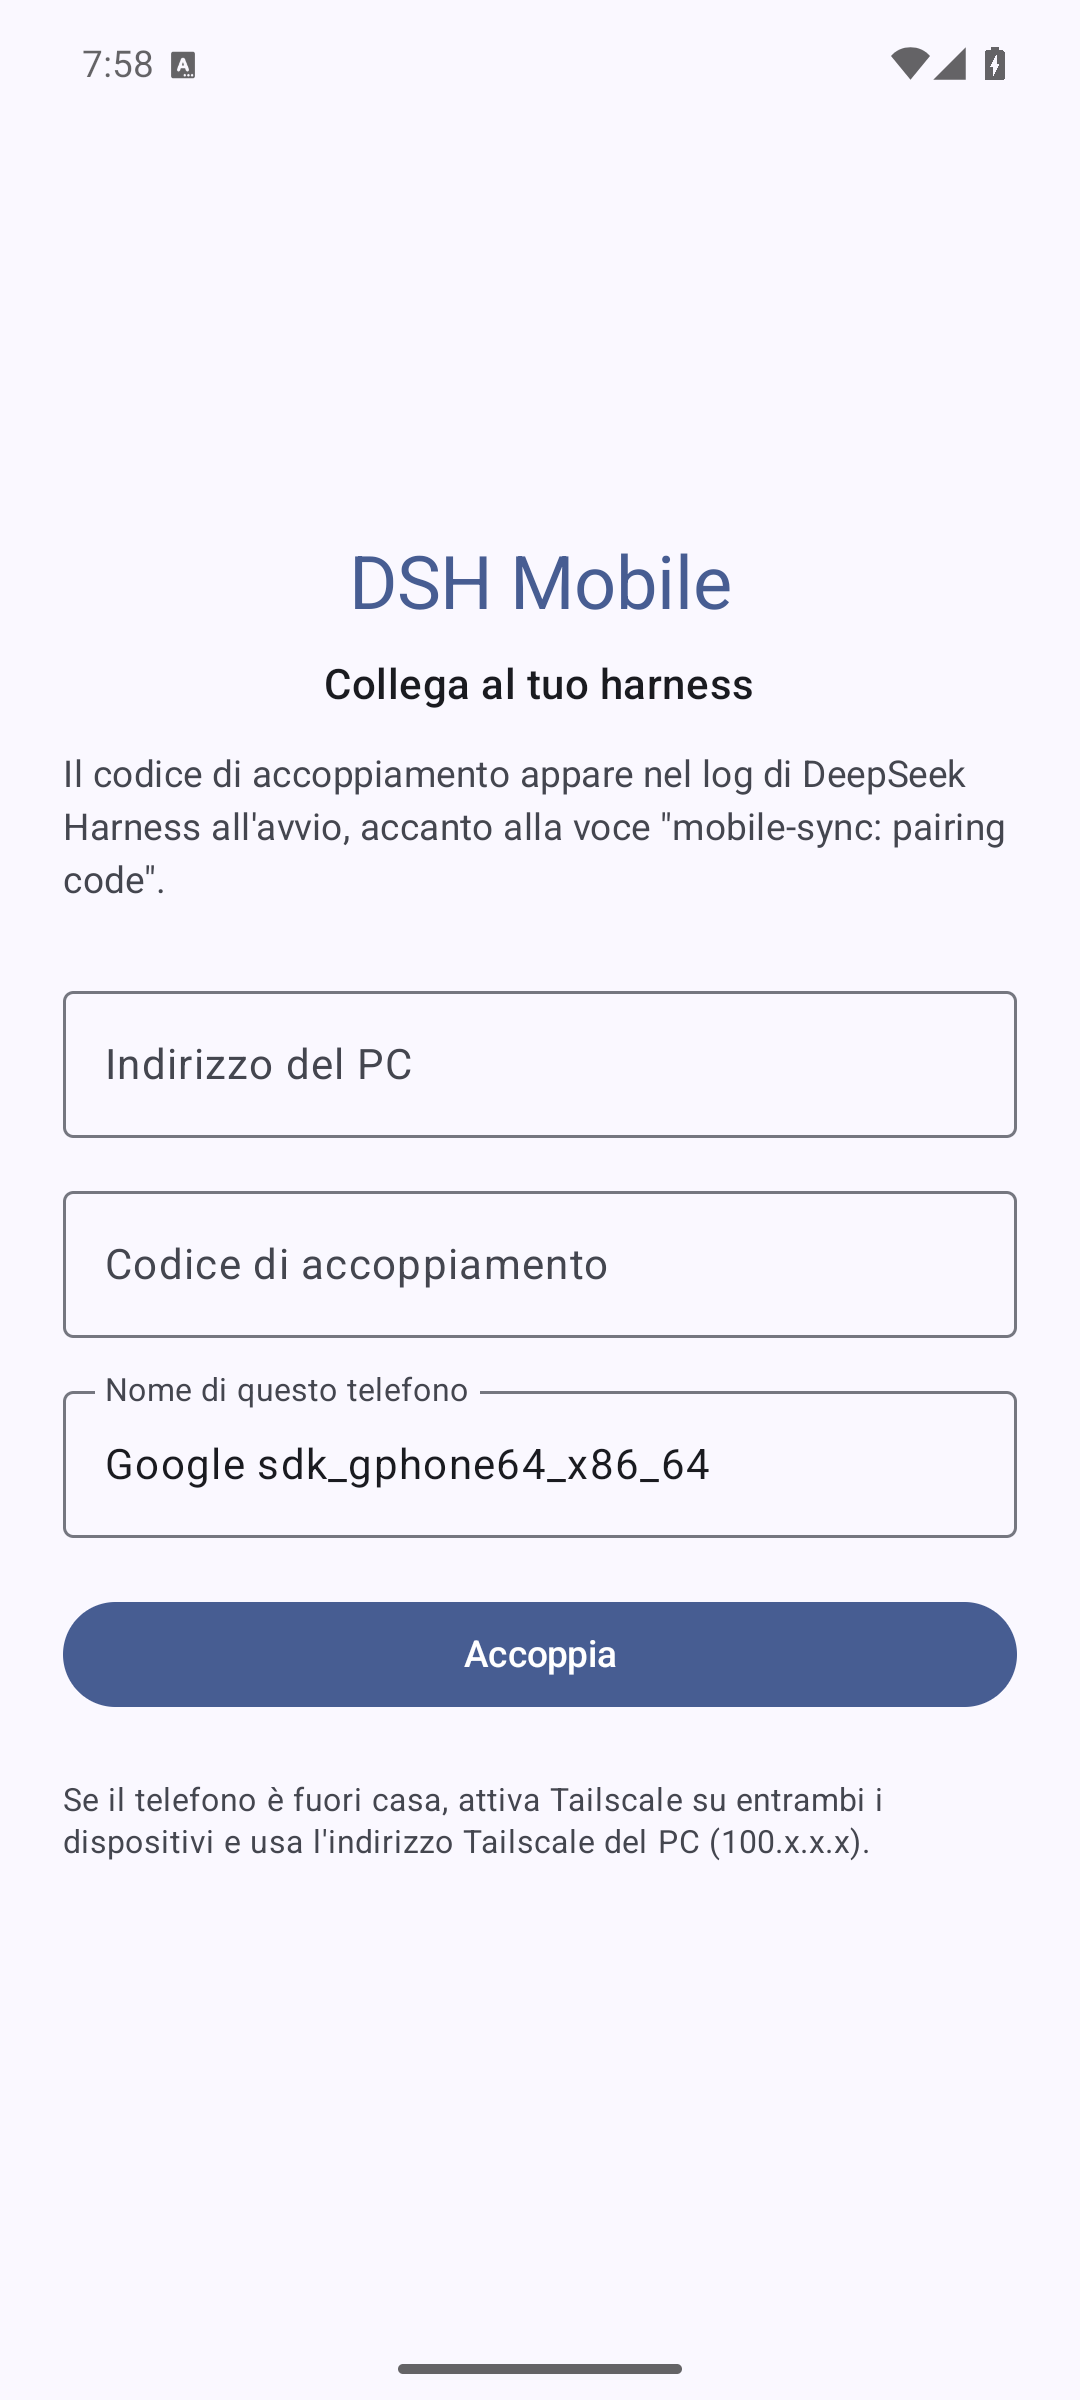
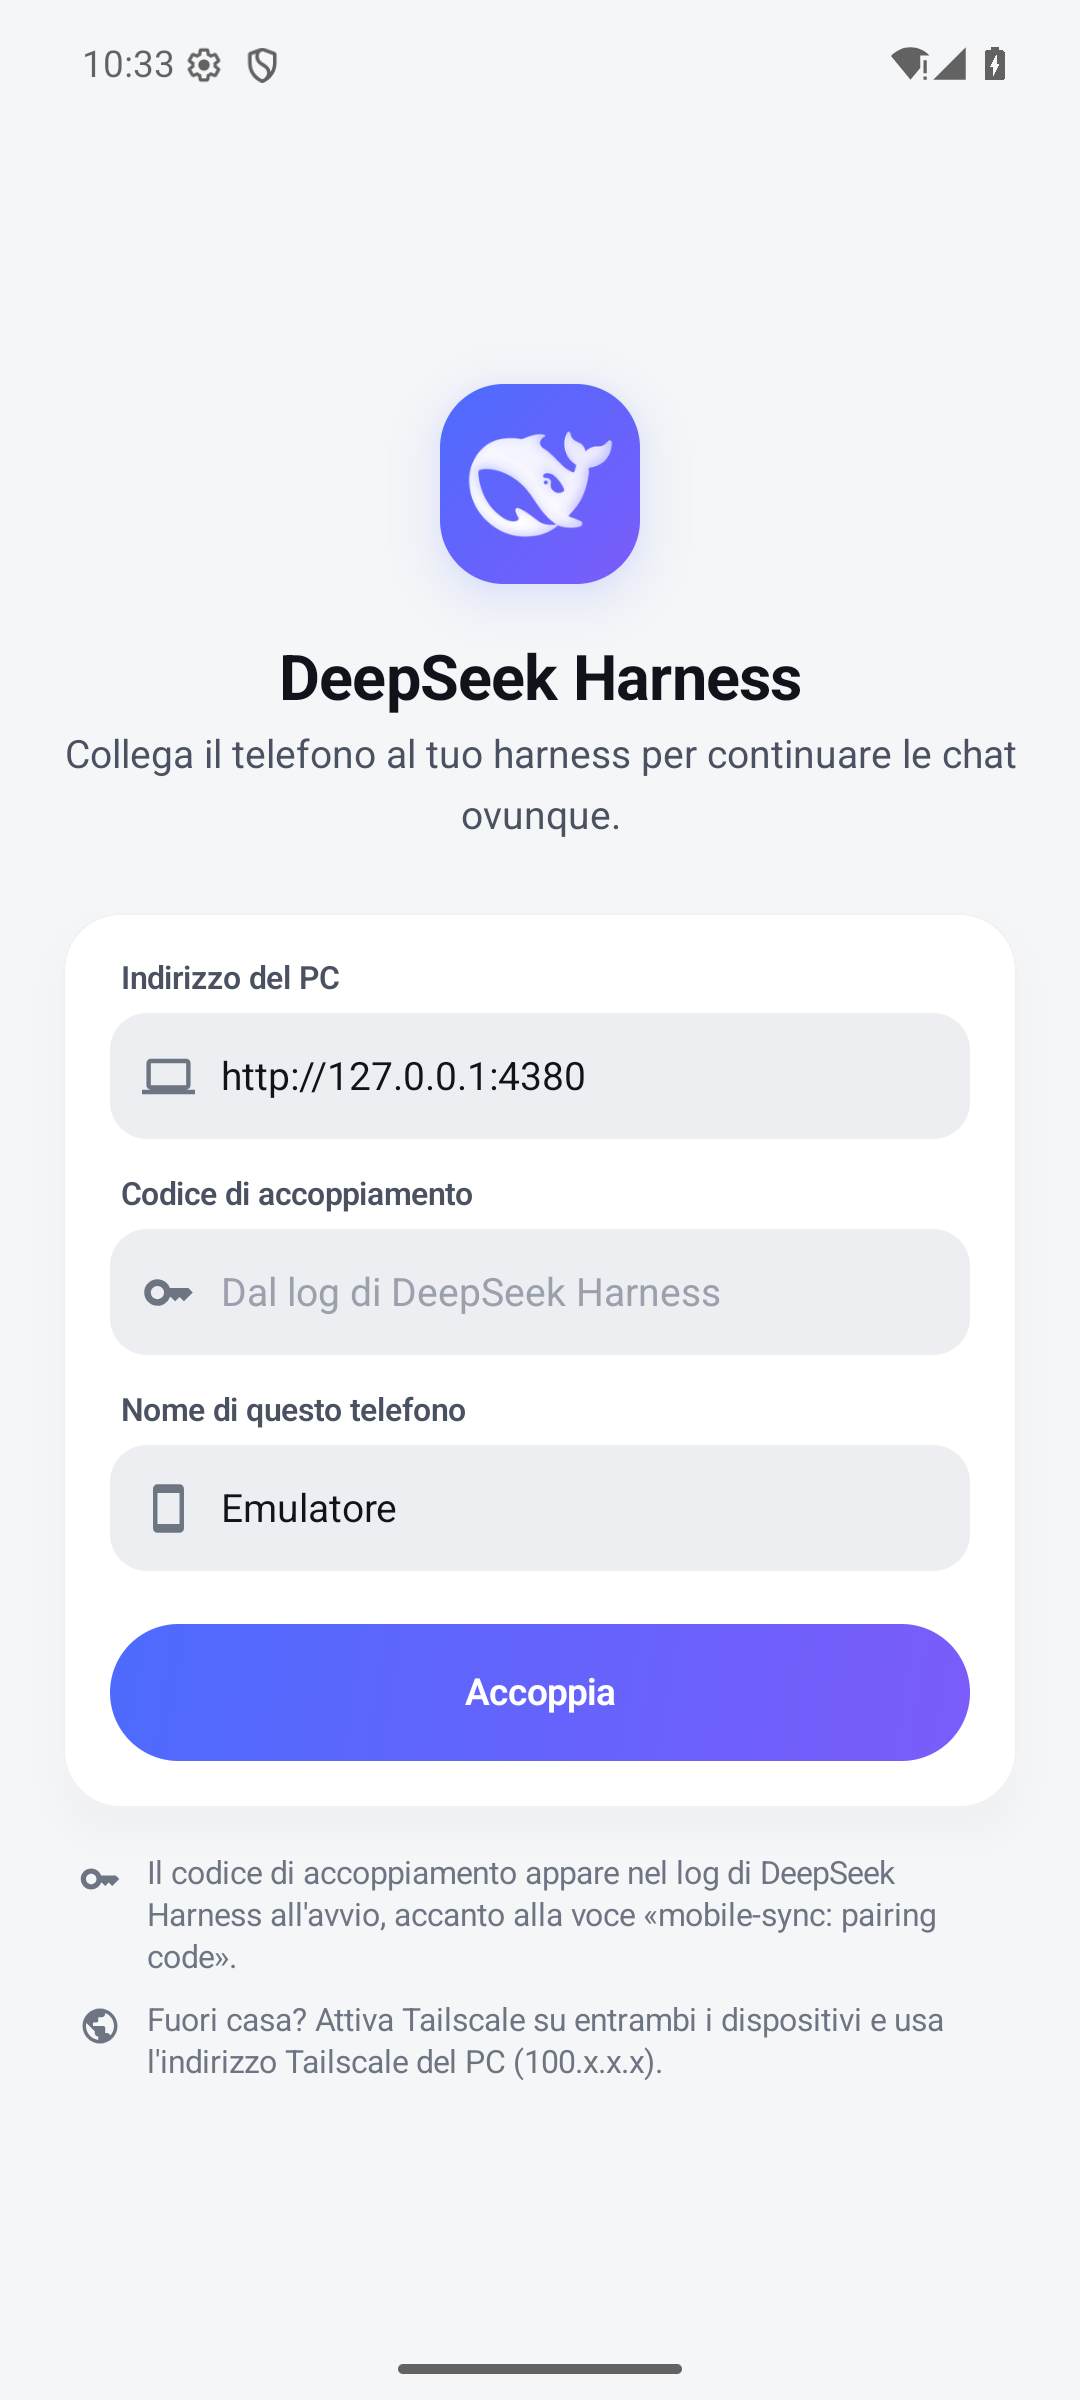
Refresh README screenshots for v0.2.0 and add a gallery
- Replace the four-shot strip with shots of the app as v0.2.0 ships, recapturing the pairing screen too
- Add a "What it looks like" section covering access presets, delivered artefacts, the project tail, settings, the dark palette, the model picker and browsing the PC's files
- Remove the superseded screenshots, including the unused phone-* ones

diff --git a/README.md b/README.md
@@ -9,9 +9,9 @@ Two pieces that work together: a host plugin that turns the running harness into
 | **`dsh-plugin-mobile-sync`** | inside DeepSeek Harness, as a Cordis host plugin (plain Node ESM, no dependencies) | Opens a dedicated HTTP listener with a per-device bearer-token model, and translates sessions, chat, photos, files, tool approvals, agent questions and permission presets into a small REST + SSE vocabulary. |
 | **`android/`** | Android 8.0+ (API 26), Kotlin + Jetpack Compose | Session list grouped by project, full transcript with tool cards and diffs, rendered markdown, sending text / photos / files, approvals, agent questions, model and permission pickers, delivered artefacts, link previews. |
 
-| Pairing | Sessions | Chat | Photo |
+| Pairing | Chats | Transcript | Tool calls |
 |---|---|---|---|
-| ![Pairing](docs/shots/app-01-pairing.png) | ![Sessions](docs/shots/app-02-sessions.png) | ![Chat](docs/shots/app-03-chat.png) | ![Photo](docs/shots/app-04-photo.png) |
+| ![Pairing](docs/shots/app-01-pairing.png) | ![Chats, grouped into projects, one folded away](docs/shots/app-02-chats.png) | ![A transcript, with a photo sent from the phone](docs/shots/app-03-transcript.png) | ![Tool cards, a failed command and the approval that stopped the turn](docs/shots/app-04-tools.png) |
 
 ---
 
@@ -222,6 +222,18 @@ Android 8.0 (API 26) or newer. The release APK published with this project is si
 - **Pick the model**, with context window, vision support and reasoning effort where the model declares them — note that this is the *PC's* selection, exactly as the desktop's own picker.
 - **Tap a link** for a preview read by the PC, **tap a file link** to read the file itself, and open, download or share **artefacts** the agent declared with `present`.
 - **Theme and language**: system / light / dark with two complete palettes, and system / Italian / English.
+
+### What it looks like
+
+Every screenshot here is the app as v0.2.0 ships it — the upgrade [CHANGELOG.md](CHANGELOG.md) describes. The phone they come from is set to Italian, and the app follows the system language while carrying both, as the Settings shot below shows.
+
+| Access level | What a turn delivered | A project with its tail open | Theme and language |
+|---|---|---|---|
+| ![The three access presets, with the checkbox full access asks for](docs/shots/app-05-access.png) | ![The artefacts a turn delivered, beside the approval it is waiting on](docs/shots/app-06-artefacts.png) | ![A project expanded past its tail, with the row that folds it back to the last five](docs/shots/app-07-project-tail.png) | ![Appearance and language in Settings](docs/shots/app-08-settings.png) |
+
+| Tool calls, dark | Model picker, dark | Browsing the PC, dark |
+|---|---|---|
+| ![Tool cards, a failed command and approvals in the dark palette](docs/shots/app-09-tools-dark.png) | ![The model picker, with context window and vision per model](docs/shots/app-10-models-dark.png) | ![Browsing the PC's filesystem to start a chat in a folder](docs/shots/app-11-browse-dark.png) |
 
 A tour of the code — where state lives, how the transcript is folded, why the data layer produces no text — is in **[docs/APP.md](docs/APP.md)**.
 
